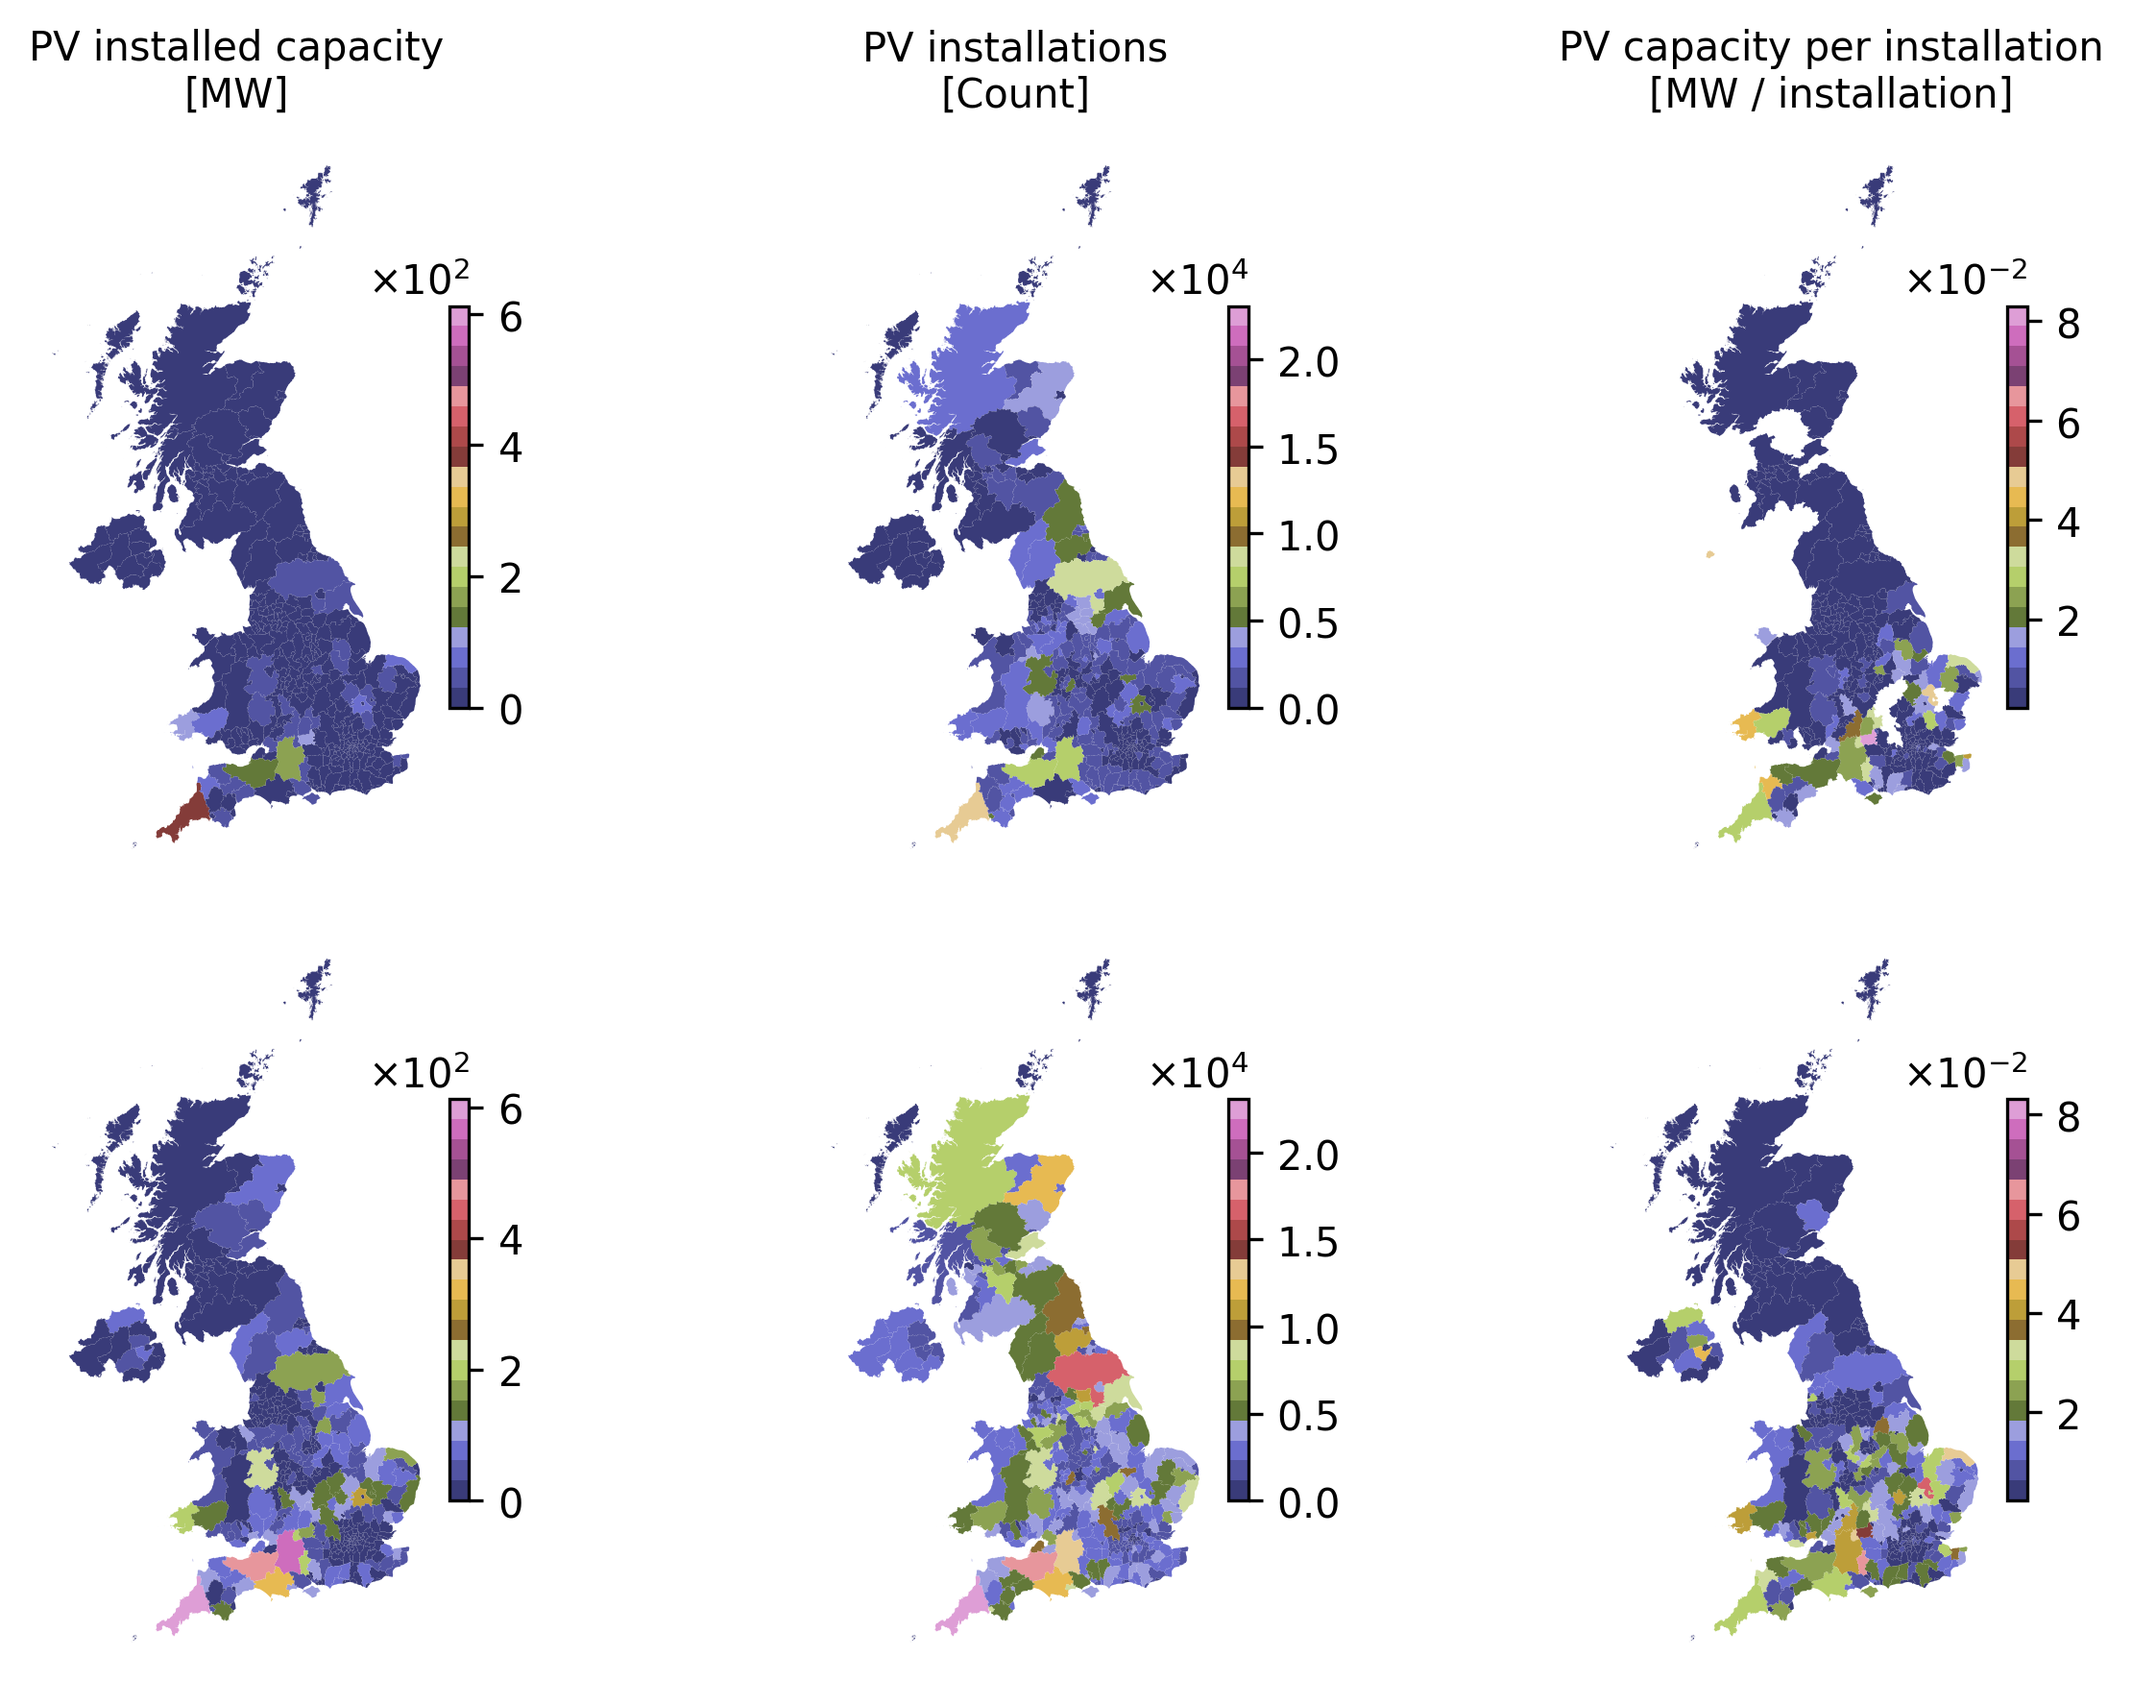
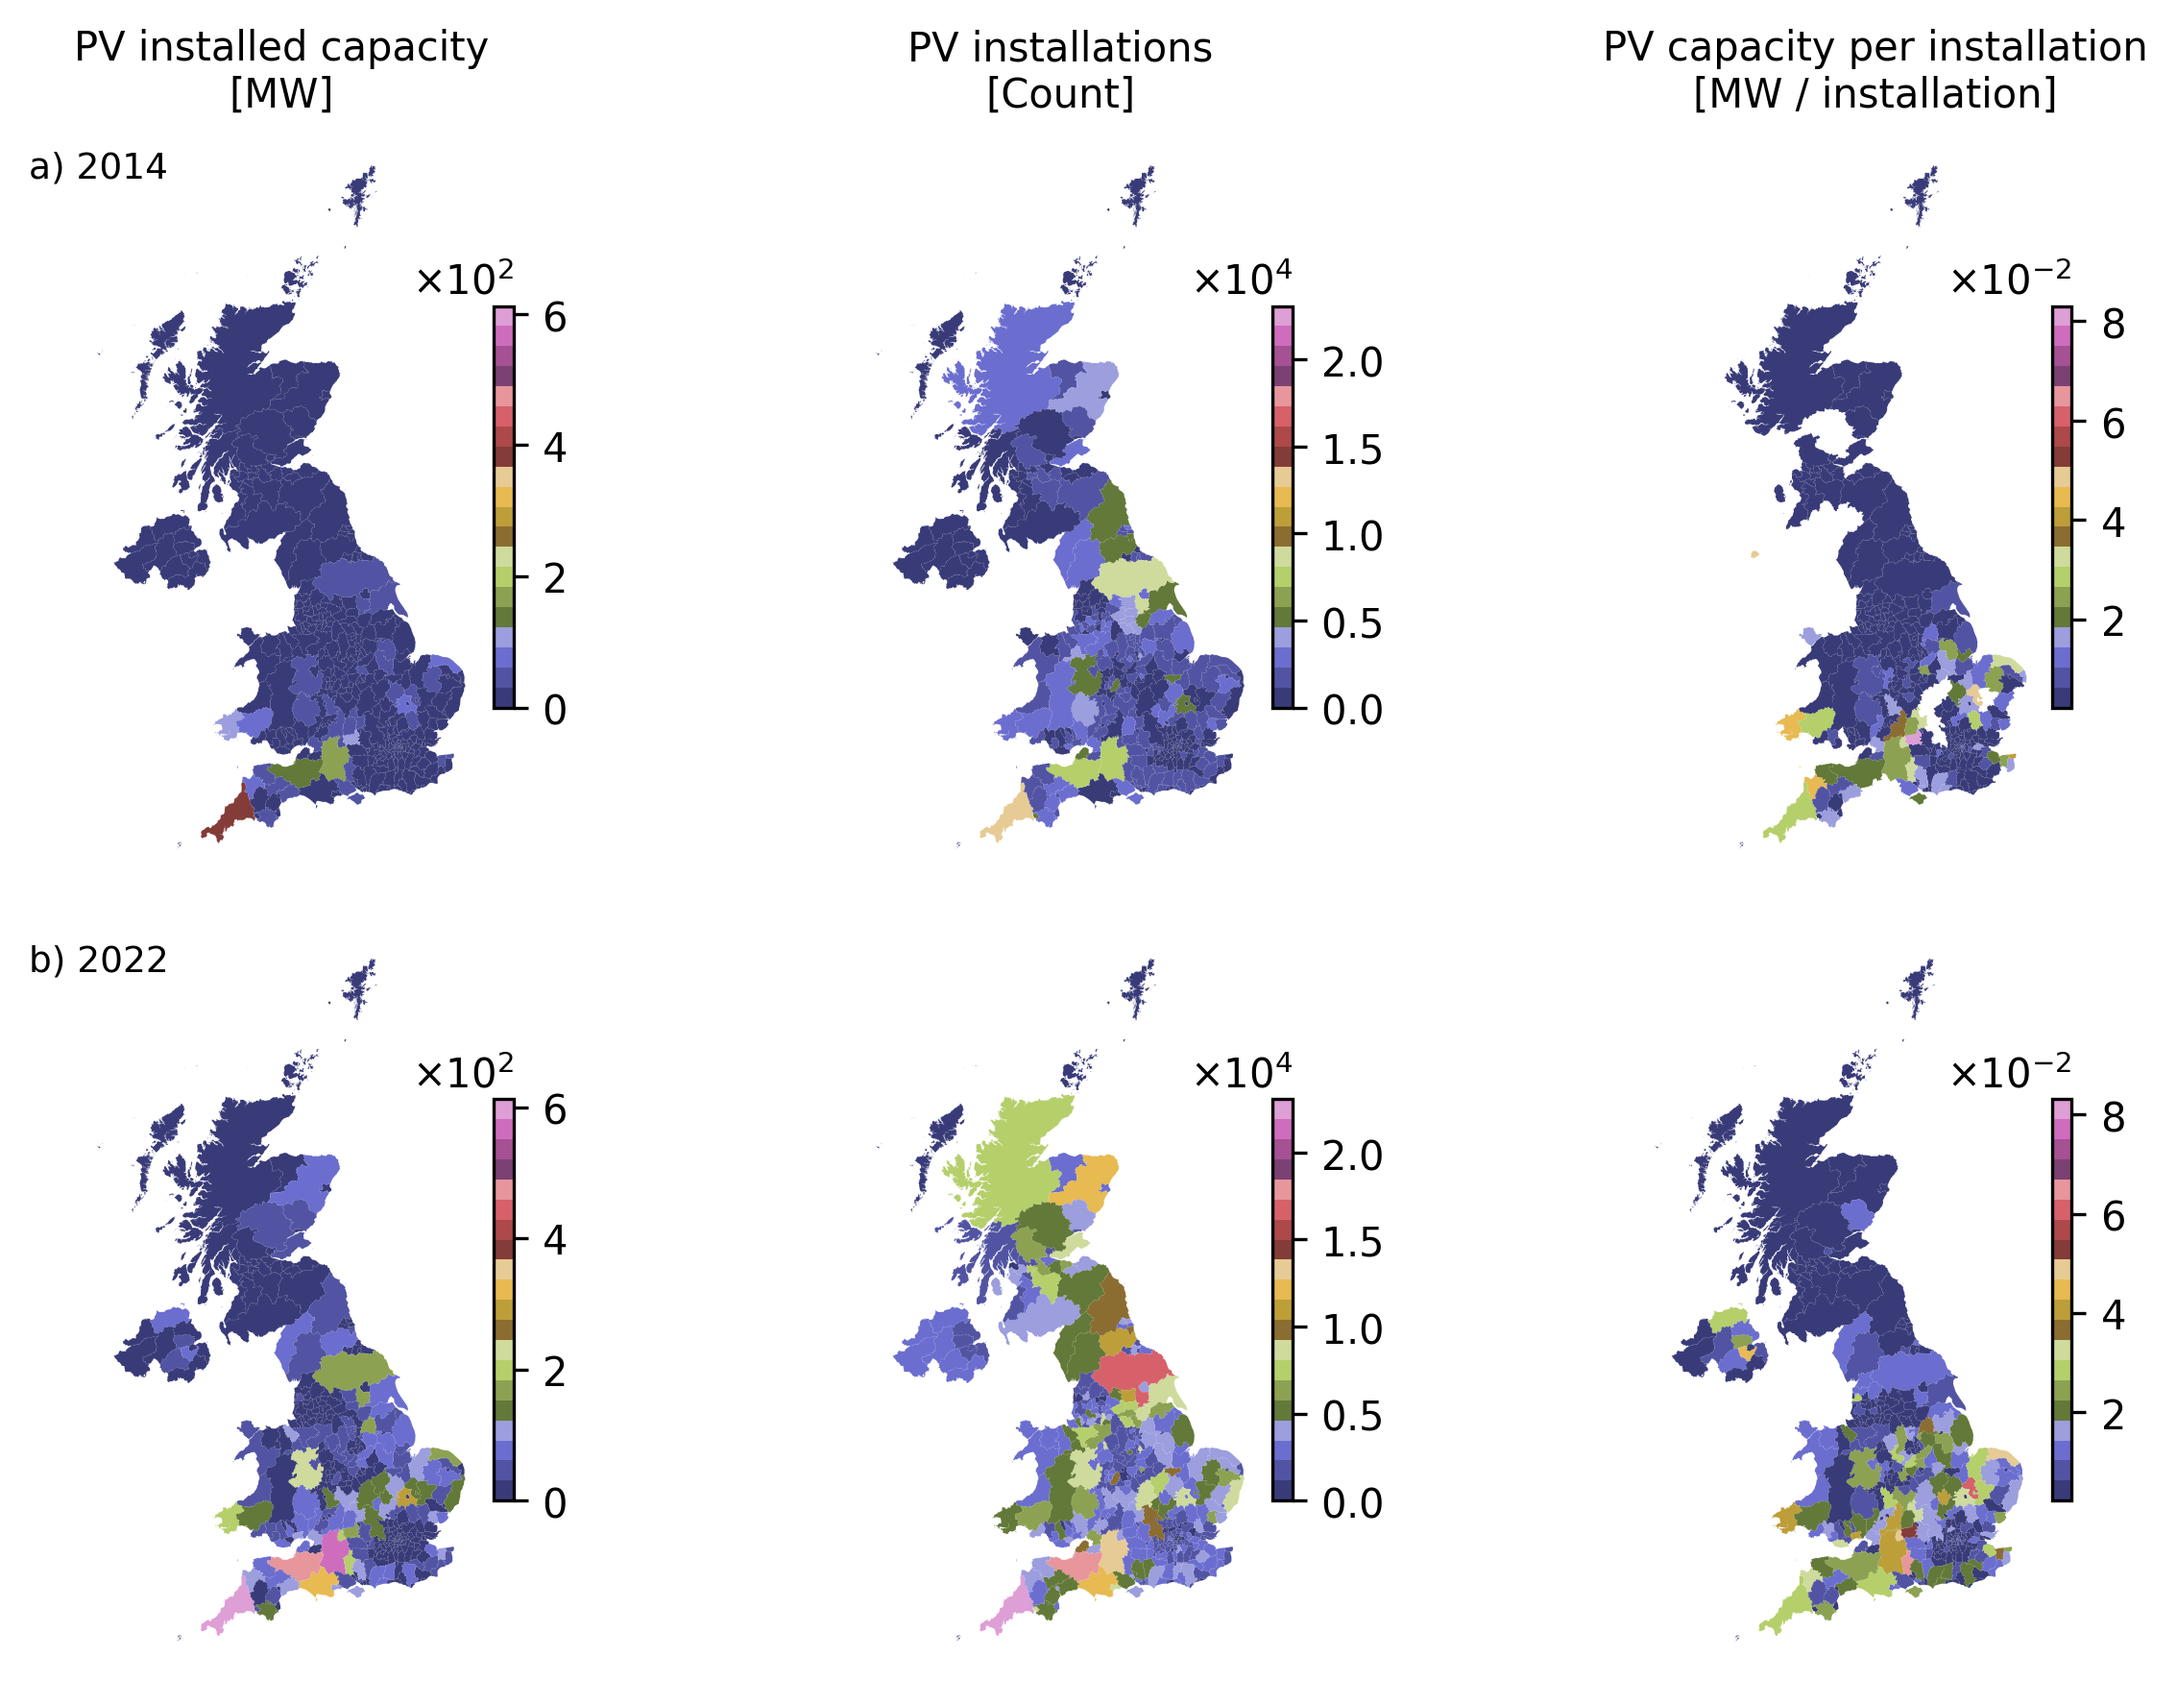
scripts/maps.py

diff --git a/scripts/maps.py b/scripts/maps.py
@@ -62,14 +62,14 @@ labels = {
     "pv_cap_per_inst": "PV capacity per installation\n[MW / installation]",
 }
 
-vmin_cap = df[["pv_cap_2014", f"pv_cap_2022"]].min().min()
-vmax_cap = df[["pv_cap_2014", f"pv_cap_2022"]].max().max()
+vmin_cap = df[["pv_cap_2014", "pv_cap_2022"]].min().min()
+vmax_cap = df[["pv_cap_2014", "pv_cap_2022"]].max().max()
 
-vmin_inst = df[["pv_inst_2014", f"pv_inst_2022"]].min().min()
-vmax_inst = df[["pv_inst_2014", f"pv_inst_2022"]].max().max()
+vmin_inst = df[["pv_inst_2014", "pv_inst_2022"]].min().min()
+vmax_inst = df[["pv_inst_2014", "pv_inst_2022"]].max().max()
 
-vmin_ratio = df[["pv_cap_per_inst_2014", f"pv_cap_per_inst_2022"]].min().min()
-vmax_ratio = df[["pv_cap_per_inst_2014", f"pv_cap_per_inst_2022"]].max().max()
+vmin_ratio = df[["pv_cap_per_inst_2014", "pv_cap_per_inst_2022"]].min().min()
+vmax_ratio = df[["pv_cap_per_inst_2014", "pv_cap_per_inst_2022"]].max().max()
 
 legend_kwds = {"fraction": 0.02, "pad": 0.01}
 cmap = plt.get_cmap("tab20b")
@@ -95,6 +95,15 @@ ax_left_top.set_title(labels["pv_cap"], fontsize=10)
 ax_left_top.set_xlabel(None)
 ax_left_top.set_ylabel(None)
 ax_left_top.set_axis_off()
+ax_left_top.text(
+    0.05,
+    0.95,
+    "a) 2014",
+    transform=ax_left_top.transAxes,
+    ha="center",
+    va="center",
+    fontsize=9,
+)
 
 ax_middle_top = fig.add_subplot(2, 3, 2)
 df.plot(
@@ -156,6 +165,15 @@ cbar_ax.yaxis.set_major_formatter(fmt)
 ax_left_bottom.set_xlabel(None)
 ax_left_bottom.set_ylabel(None)
 ax_left_bottom.set_axis_off()
+ax_left_bottom.text(
+    0.05,
+    0.95,
+    "b) 2022",
+    transform=ax_left_bottom.transAxes,
+    ha="center",
+    va="center",
+    fontsize=9,
+)
 
 ax_middle_bottom = fig.add_subplot(2, 3, 5)
 df.plot(
